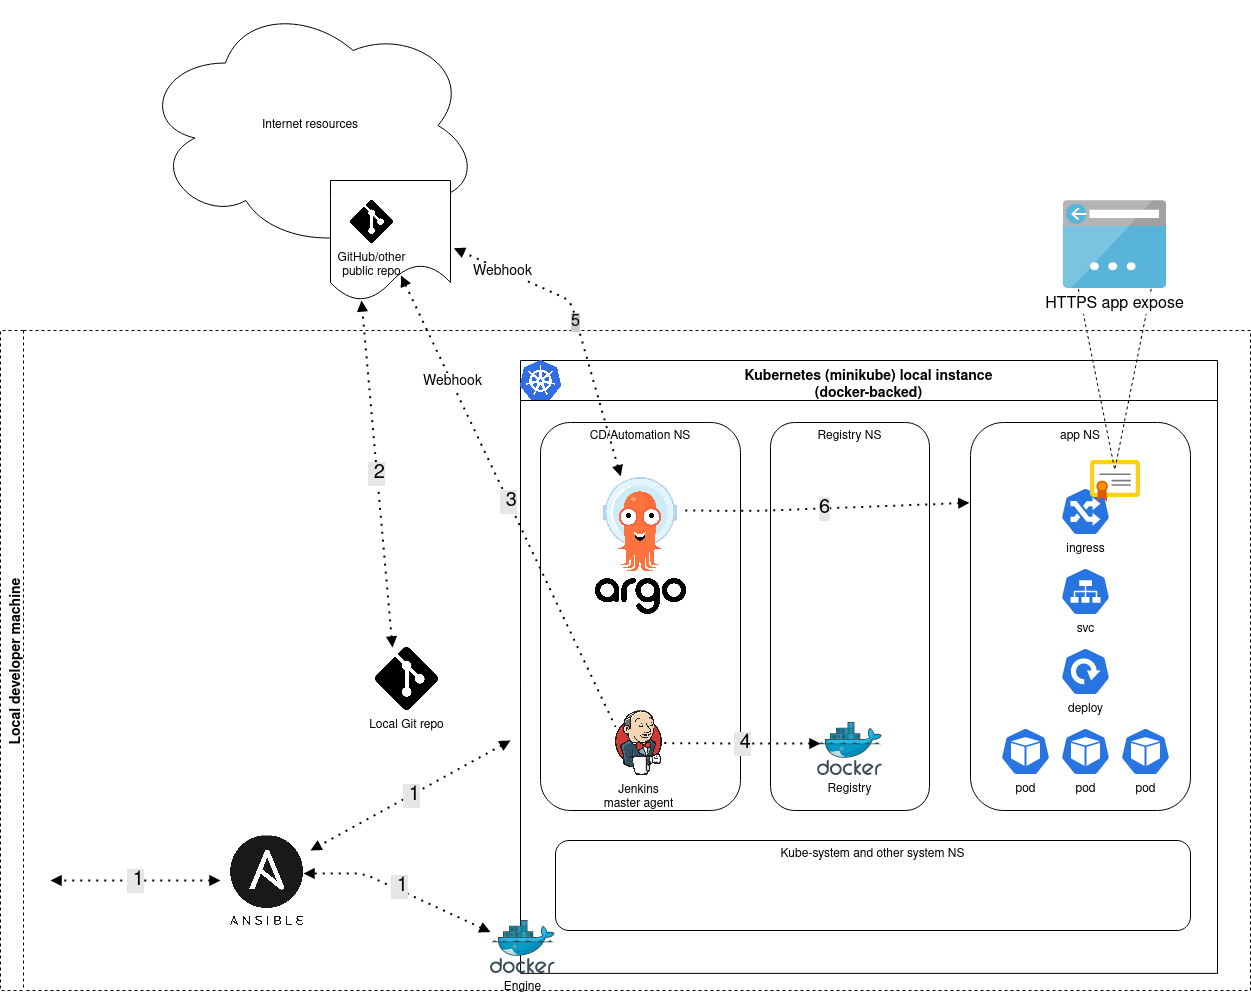
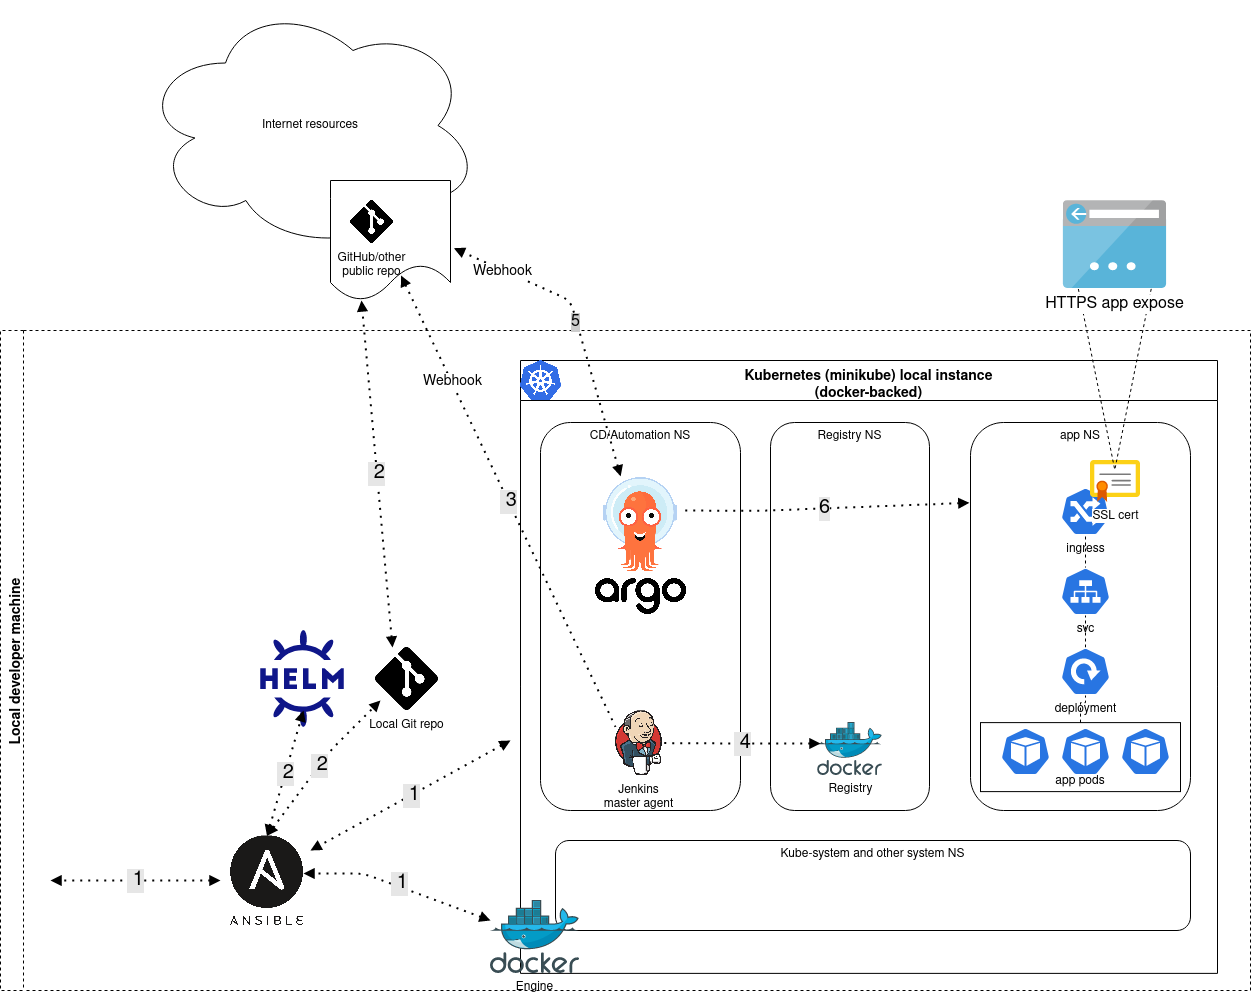
some fixes and rewrites in doc text, added Helm to diagrams and descriptions

diff --git a/README.md b/README.md
@@ -58,7 +58,7 @@ Next, following the numbers on the scheme:
 
 1) Setup our infrastructure with Ansible: install all necessary packages, install Docker and minikube along with our private image registry.
 
-2) Setup our local and remote git repo (assuming all code and manifests and other artifacts are written, tested and ready to deploy).
+2) Setup our local and remote git repo (assuming all code and manifests and other artifacts are written, tested and ready to deploy). Setup Helm for further deploying and updating system software via Helm charts in the Kubernetes cluster (and maybe our app too if I could and have time to package it into Helm chart)
 
 3) Setup the automatic image building tool (Jenkins for example) that ideally should integrate via webhook with our remote git repo and rebuild our image with autoincrementing its version on new commits.
 
@@ -68,7 +68,7 @@ Next, following the numbers on the scheme:
 
 6) Deploy/redeploy our app to Kubernetes cluster (ok not cluster but single-node-everything on minikube)
 
-7) Publish our app for external users with access via Kubernetes ingress (ideally with HTTPS access and self-signed certificate that could be easily changed to Letsencrypt or something similar in normal Kubernetes cluster)
+7) Publish our app for external users with access via the Kubernetes ingress (ideally with HTTPS access and self-signed certificate that could be easily changed to Letsencrypt or something similar in normal Kubernetes cluster)
 
 
 
@@ -305,14 +305,14 @@ The options you can setup there:
 ### Possible improvements
 
  - 2 git branches at least - main/develop - currently only 1 main branch
- - proper and working Ansible roles, Linux distro-agnostic
+ - proper and working Ansible roles, to make code cleaner and make the solution Linux distro-agnostic
   - separate namespaces for dev/prod env in k8s
-  - set limits and requests for prod
-  - set QoS class: Guaranteed for prod
+  - set limits and requests for pods in Kubernetes (actual for prod environment)
+  - set QoS class: Guaranteed for pods in Kubernetes (actual for prod environment)
 
-  - canary/a-b testing deployment strategies instead of default rollout stategy
-  - better templating/maybe with Helm charts
-  - proper automatic build/deploy
-  - vaulted credentials if needed (currently only anonymous access everywhere)
+  - canary/a-b testing deployment strategies instead of default rollout one-by-one pod replacing stategy
+  - better templating/maybe with packaging the app into Helm charts
+  - proper automatic (really automatic by one button hit) build/deploy
+  - vaulted credentials and other sensitive data if needed (currently only anonymous access everywhere for dev and test purposes)
   - external highly available docker registry
-  - external hightly available persistent data storage (S3, DB etc)
+  - external hightly available persistent data storage (S3, DB etc) if needed (currently no need for persistent data)
